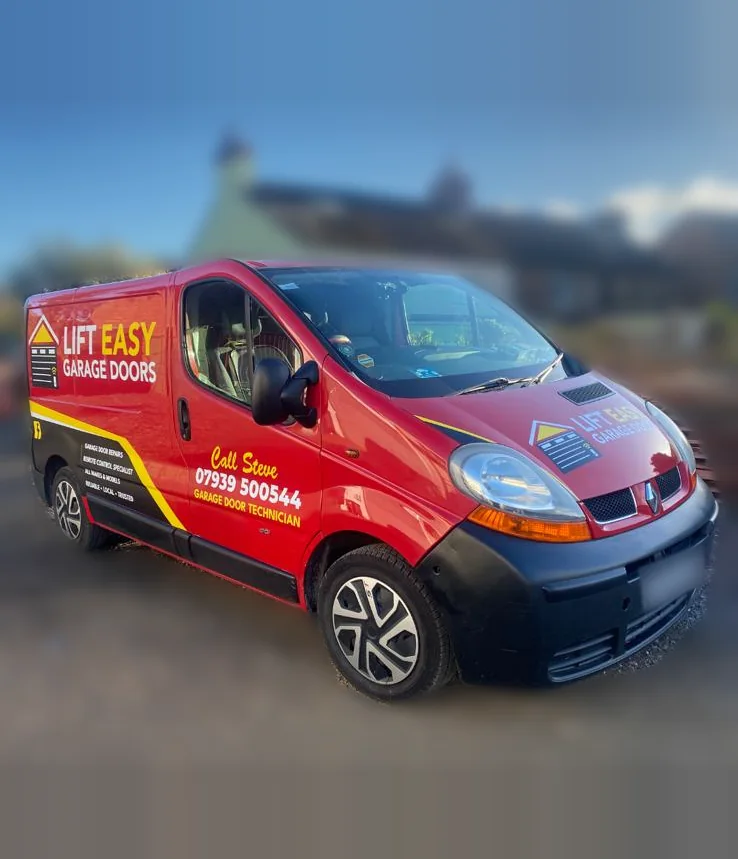
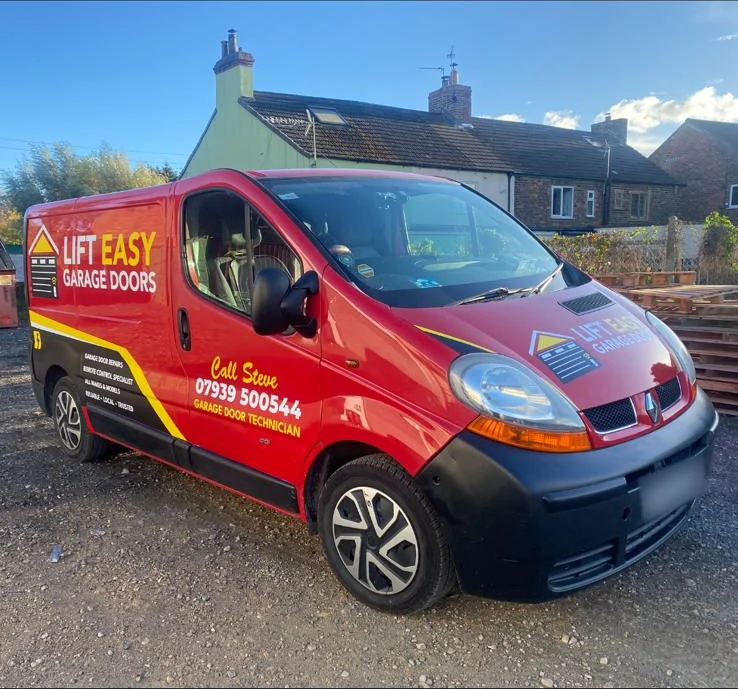
altered layout

diff --git a/css/site.css b/css/site.css
@@ -239,9 +239,8 @@ svg{display:block}
   .hero__call-text strong{font-size:clamp(2.25rem,3.4vw,3rem)}
 }
 
-/* Van photos: keep the whole van in frame at every hero shape. The side shot
- * has extra blurred sky and ground so it also fills the tall desktop panel. */
-.hero--home .hero__photo img.van-side{object-position:50% 63%}
+/* Van photos: keep the whole van in frame at every hero shape */
+.hero--home .hero__photo img.van-side{object-position:50% 68%}
 .hero__photo img.van-front{object-position:50% 55%}
 @media (min-width:768px) and (max-width:1023px){
   /* 21:9 would slice the van in half, so the homepage photo keeps a taller frame on tablets */

diff --git a/index.html b/index.html
@@ -102,7 +102,7 @@
     </div>
     <div class="hero__media">
       <div class="hero__photo">
-        <!-- Background and number plate blurred in the source image -->
+        <!-- Number plate blurred in the source image -->
         <img class="van-side" src="assets/van/van-side.webp" alt="Steve's red Lift Easy Garage Doors van, signwritten with his number, 07939 500544" fetchpriority="high">
       </div>
       <div class="hero__badge">
